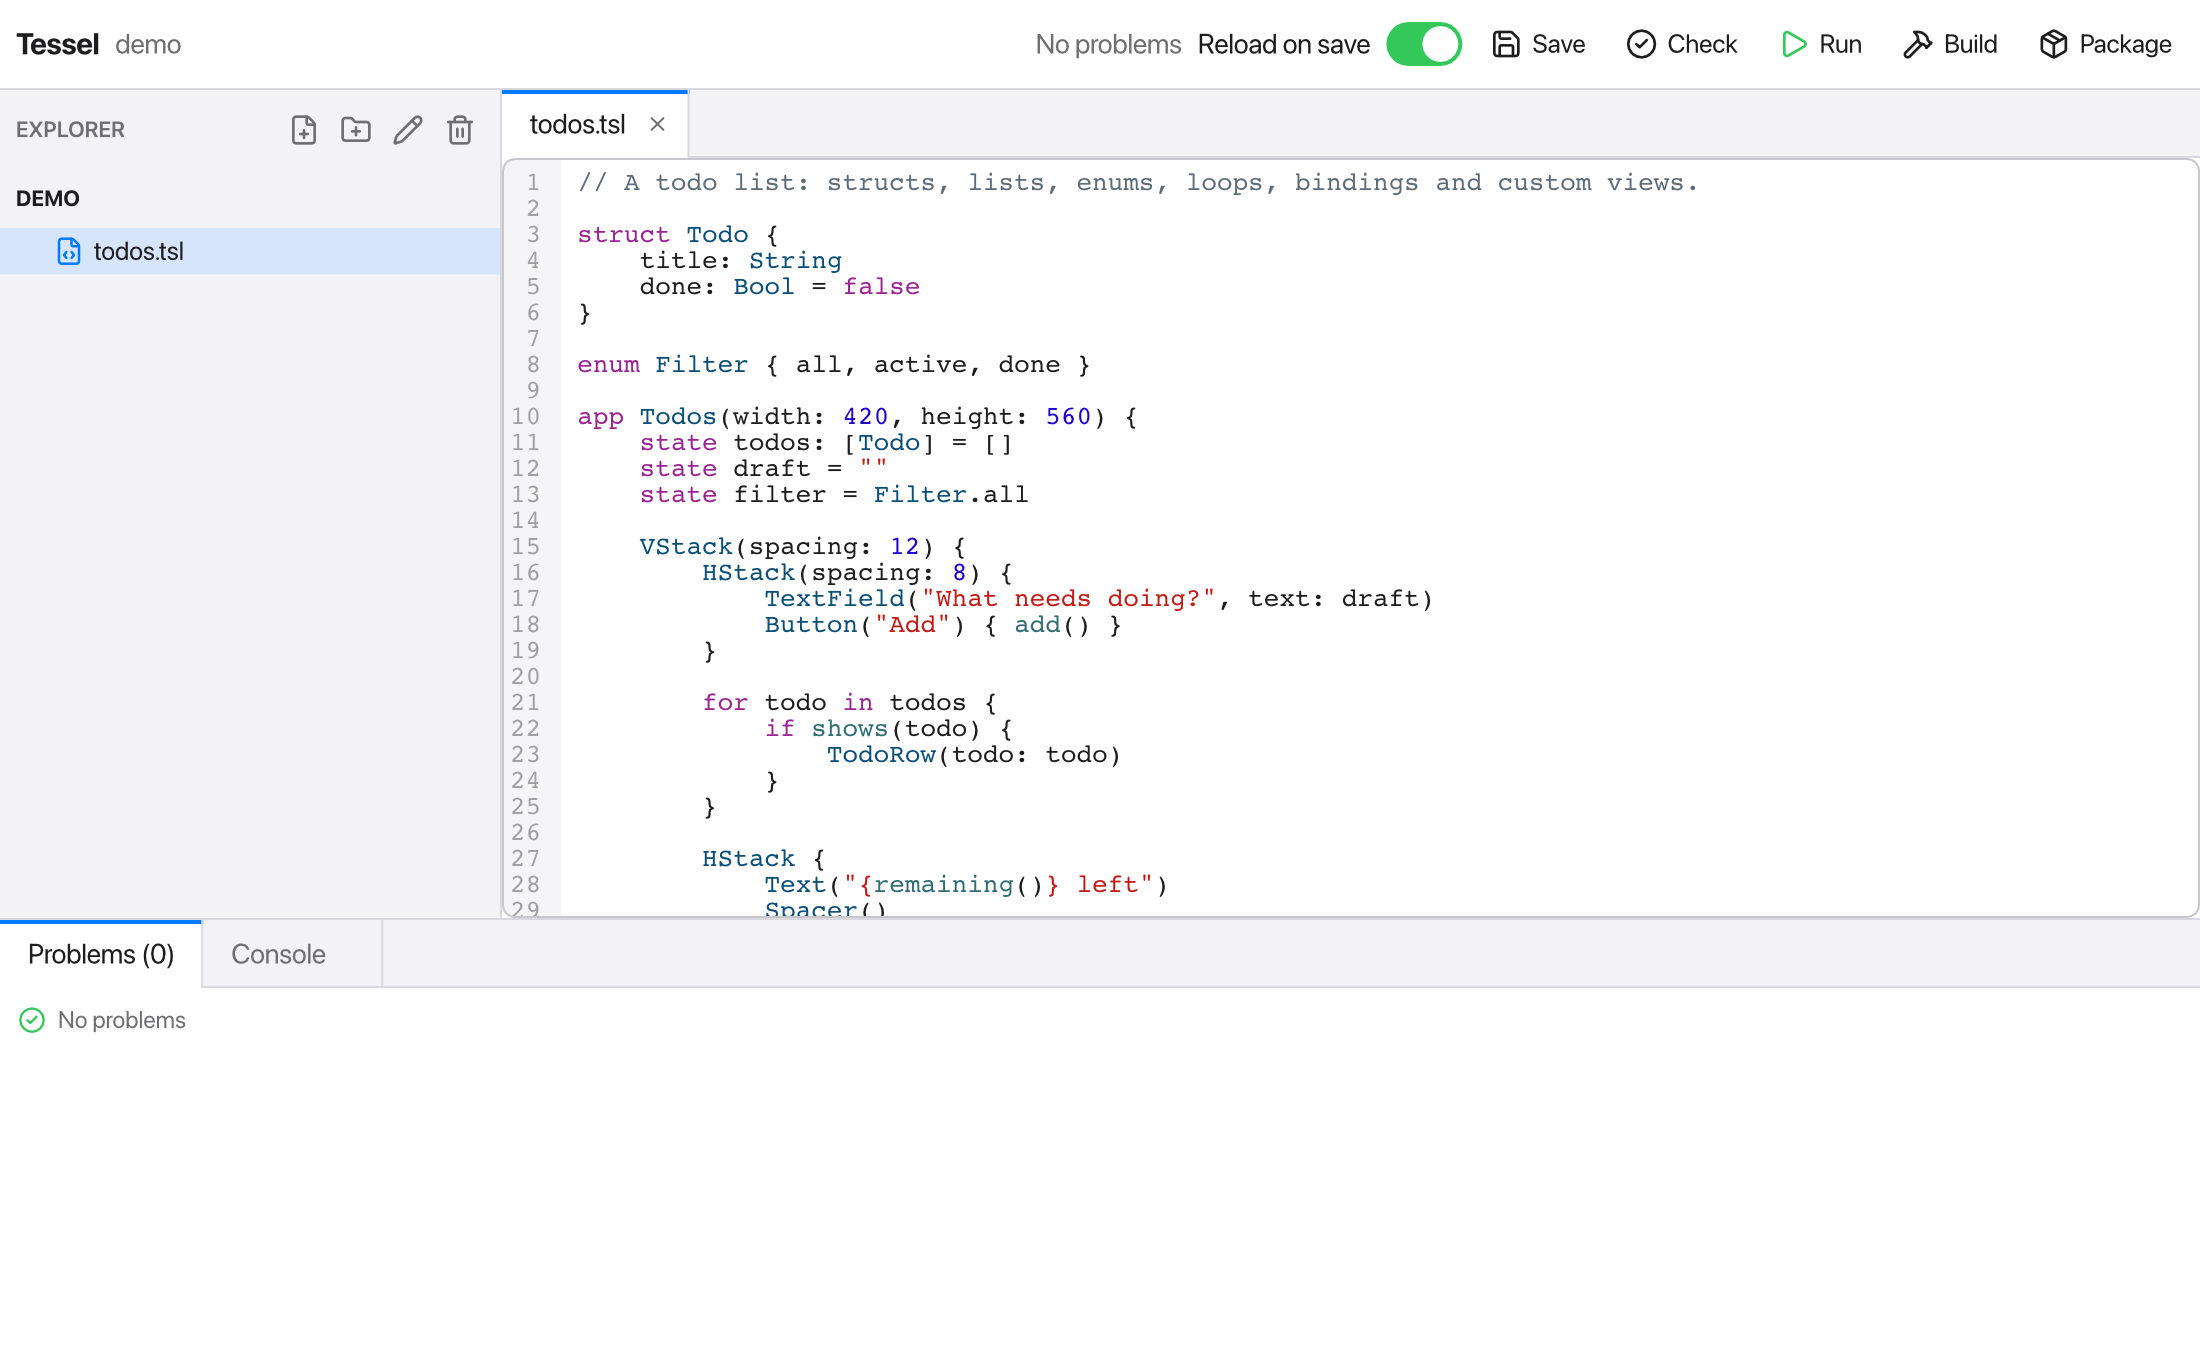
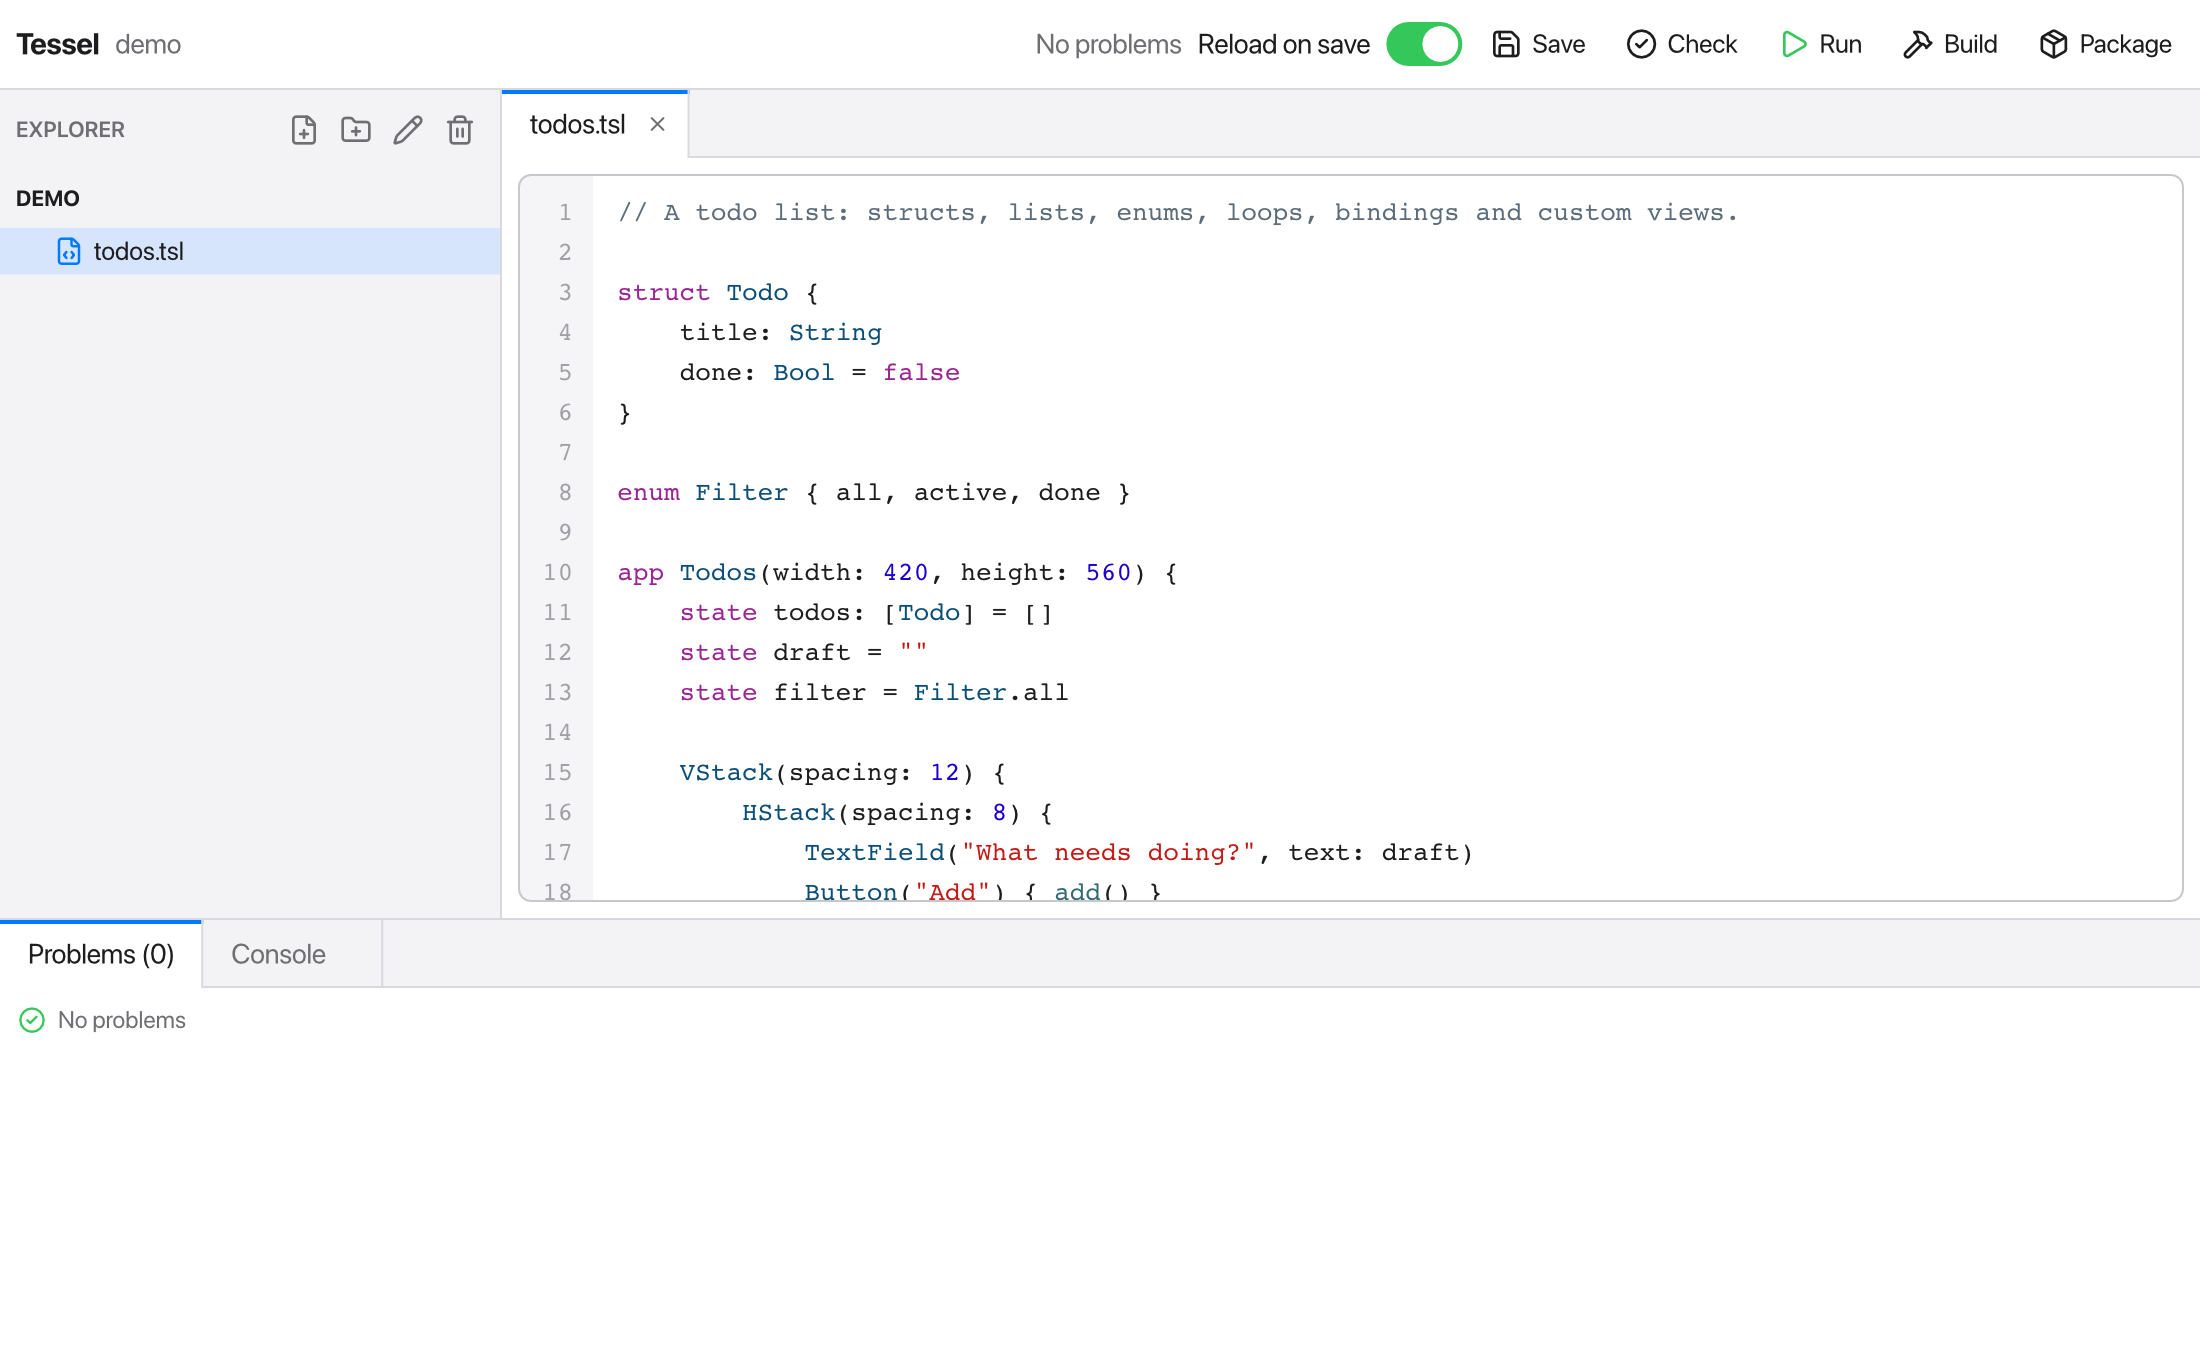
Code editor: room to read, and a margin around it in the IDE
- `CodeEditor`: lines are 20 points high (the font's own height before),
  with more space around the line numbers and around the code.
- IDE: the editor has a margin inside its tab, instead of touching the
  sidebar, the tab bar, the bottom panel and the window's edge.

diff --git a/crates/tessel-runtime/src/ui/render.rs b/crates/tessel-runtime/src/ui/render.rs
@@ -4,7 +4,7 @@
 use std::collections::HashMap;
 use std::num::NonZeroUsize;
 
-use parley::{FontContext, GenericFamily, LayoutContext, PositionedLayoutItem, StyleProperty};
+use parley::{FontContext, GenericFamily, LayoutContext, LineHeight, PositionedLayoutItem, StyleProperty};
 use vello::kurbo::{Affine, Circle, RoundedRect, Stroke};
 use vello::peniko::{Color, Fill, Mix};
 use vello::util::RenderContext;
@@ -17,6 +17,16 @@ use super::{Kind, Node, Rgba};
 /// Text color carried through parley layouts.
 #[derive(Clone, Copy, Debug, Default, PartialEq)]
 pub struct Paint(pub [u8; 4]);
+
+// A code editor's spacing, in points.
+/// The height of a line of code (its text is 13 points): room to read.
+const CODE_LINE: f32 = 20.0;
+/// Left and right of the line numbers.
+pub const GUTTER_PAD: (f64, f64) = (12.0, 10.0);
+/// Between the line numbers and the code, and after the longest line.
+pub const CODE_PAD_X: f64 = 12.0;
+/// Above the first line and below the last.
+pub const CODE_PAD_Y: f64 = 10.0;
 
 pub struct TextEngine {
     fonts: FontContext,
@@ -33,6 +43,7 @@ impl TextEngine {
         let mut b = self.layouts.ranged_builder(&mut self.fonts, text, 1.0, true);
         b.push_default(StyleProperty::from(GenericFamily::Monospace));
         b.push_default(StyleProperty::FontSize(size as f32));
+        b.push_default(StyleProperty::LineHeight(LineHeight::Absolute(CODE_LINE)));
         b.push_default(StyleProperty::Brush(Paint(theme().colors[theme::PRIMARY].0)));
         for (range, color) in super::highlight::highlight(text) {
             b.push(StyleProperty::Brush(Paint(color.0)), range);
@@ -56,11 +67,12 @@ impl TextEngine {
         layout
     }
 
-    /// Monospaced gray text (line numbers).
+    /// Monospaced gray text (line numbers), on the lines of the code.
     pub fn mono_layout(&mut self, text: &str, size: f64, color: Rgba) -> parley::Layout<Paint> {
         let mut b = self.layouts.ranged_builder(&mut self.fonts, text, 1.0, true);
         b.push_default(StyleProperty::from(GenericFamily::Monospace));
         b.push_default(StyleProperty::FontSize(size as f32));
+        b.push_default(StyleProperty::LineHeight(LineHeight::Absolute(CODE_LINE)));
         b.push_default(StyleProperty::Brush(Paint(color.0)));
         let mut layout = b.build(text);
         layout.break_all_lines(None);
@@ -415,7 +427,7 @@ impl Painter<'_> {
                         self.fill(Rect { x: content.x, y, w: 3.0, h: bottom - top }, 0.0, theme().error_mark);
                     }
                     if let Some(numbers) = &n.layout.placeholder {
-                        self.text(numbers, content.x + 4.0, y0 - scroll_y, None);
+                        self.text(numbers, content.x + GUTTER_PAD.0, y0 - scroll_y, None);
                     }
                     let code_area = Rect { x: content.x + n.layout.gutter, y: content.y, w: content.w - n.layout.gutter, h: content.h };
                     self.scene.push_layer(Fill::NonZero, Mix::Normal, 1.0, t_scene, &rounded(code_area, 0.0));
@@ -522,7 +534,7 @@ impl Painter<'_> {
 /// Where a code editor's text starts (before scrolling).
 pub fn code_origin(n: &Node) -> (f64, f64) {
     let content = n.layout.rect.inset_by(n.mods.padding);
-    (content.x + n.layout.gutter + 8.0, content.y + 6.0)
+    (content.x + n.layout.gutter + CODE_PAD_X, content.y + CODE_PAD_Y)
 }
 
 /// Where a text field's text starts (before horizontal scrolling).

diff --git a/crates/tessel-runtime/src/ui/layout.rs b/crates/tessel-runtime/src/ui/layout.rs
@@ -8,7 +8,7 @@
 
 use std::collections::HashMap;
 
-use super::render::{Paint, TextEngine};
+use super::render::{Paint, TextEngine, CODE_PAD_Y, GUTTER_PAD};
 use super::theme::{self, theme};
 use super::{Kind, Node, Rgba};
 
@@ -263,8 +263,8 @@ impl Layouter<'_> {
                 let digits = count.to_string().len().max(2);
                 let numbers: Vec<String> = (1..=count).map(|i| format!("{i:>digits$}")).collect();
                 let numbers = self.text.mono_layout(&numbers.join("\n"), 13.0, theme().line_number);
-                n.layout.gutter = numbers.width() as f64 + 14.0;
-                n.layout.content_h = t.height() as f64 + 12.0;
+                n.layout.gutter = numbers.width() as f64 + GUTTER_PAD.0 + GUTTER_PAD.1;
+                n.layout.content_h = t.height() as f64 + 2.0 * CODE_PAD_Y;
                 n.layout.text = Some(t);
                 n.layout.placeholder = Some(numbers);
                 let w = if avail.w.is_finite() { avail.w } else { 480.0 };

diff --git a/crates/tessel-runtime/src/ui/app.rs b/crates/tessel-runtime/src/ui/app.rs
@@ -894,8 +894,8 @@ impl App {
         match node.kind {
             Kind::CodeEditor { .. } => {
                 let (cx0, cx1, cy0, cy1) = caret.map_or((0.0, 0.0, 0.0, 16.0), |c| (c.x0, c.x1, c.y0, c.y1));
-                let visible_w = (content.w - node.layout.gutter - 16.0).max(1.0);
-                let visible_h = (content.h - 12.0).max(1.0);
+                let visible_w = (content.w - node.layout.gutter - 2.0 * render::CODE_PAD_X).max(1.0);
+                let visible_h = (content.h - 2.0 * render::CODE_PAD_Y).max(1.0);
                 let sx = self.ui.scroll_x.entry(e.key).or_insert(0.0);
                 keep(sx, cx0, cx1, visible_w, layout.width() as f64 + 2.0);
                 let sy = self.ui.scroll.entry(e.key).or_insert(0.0);
